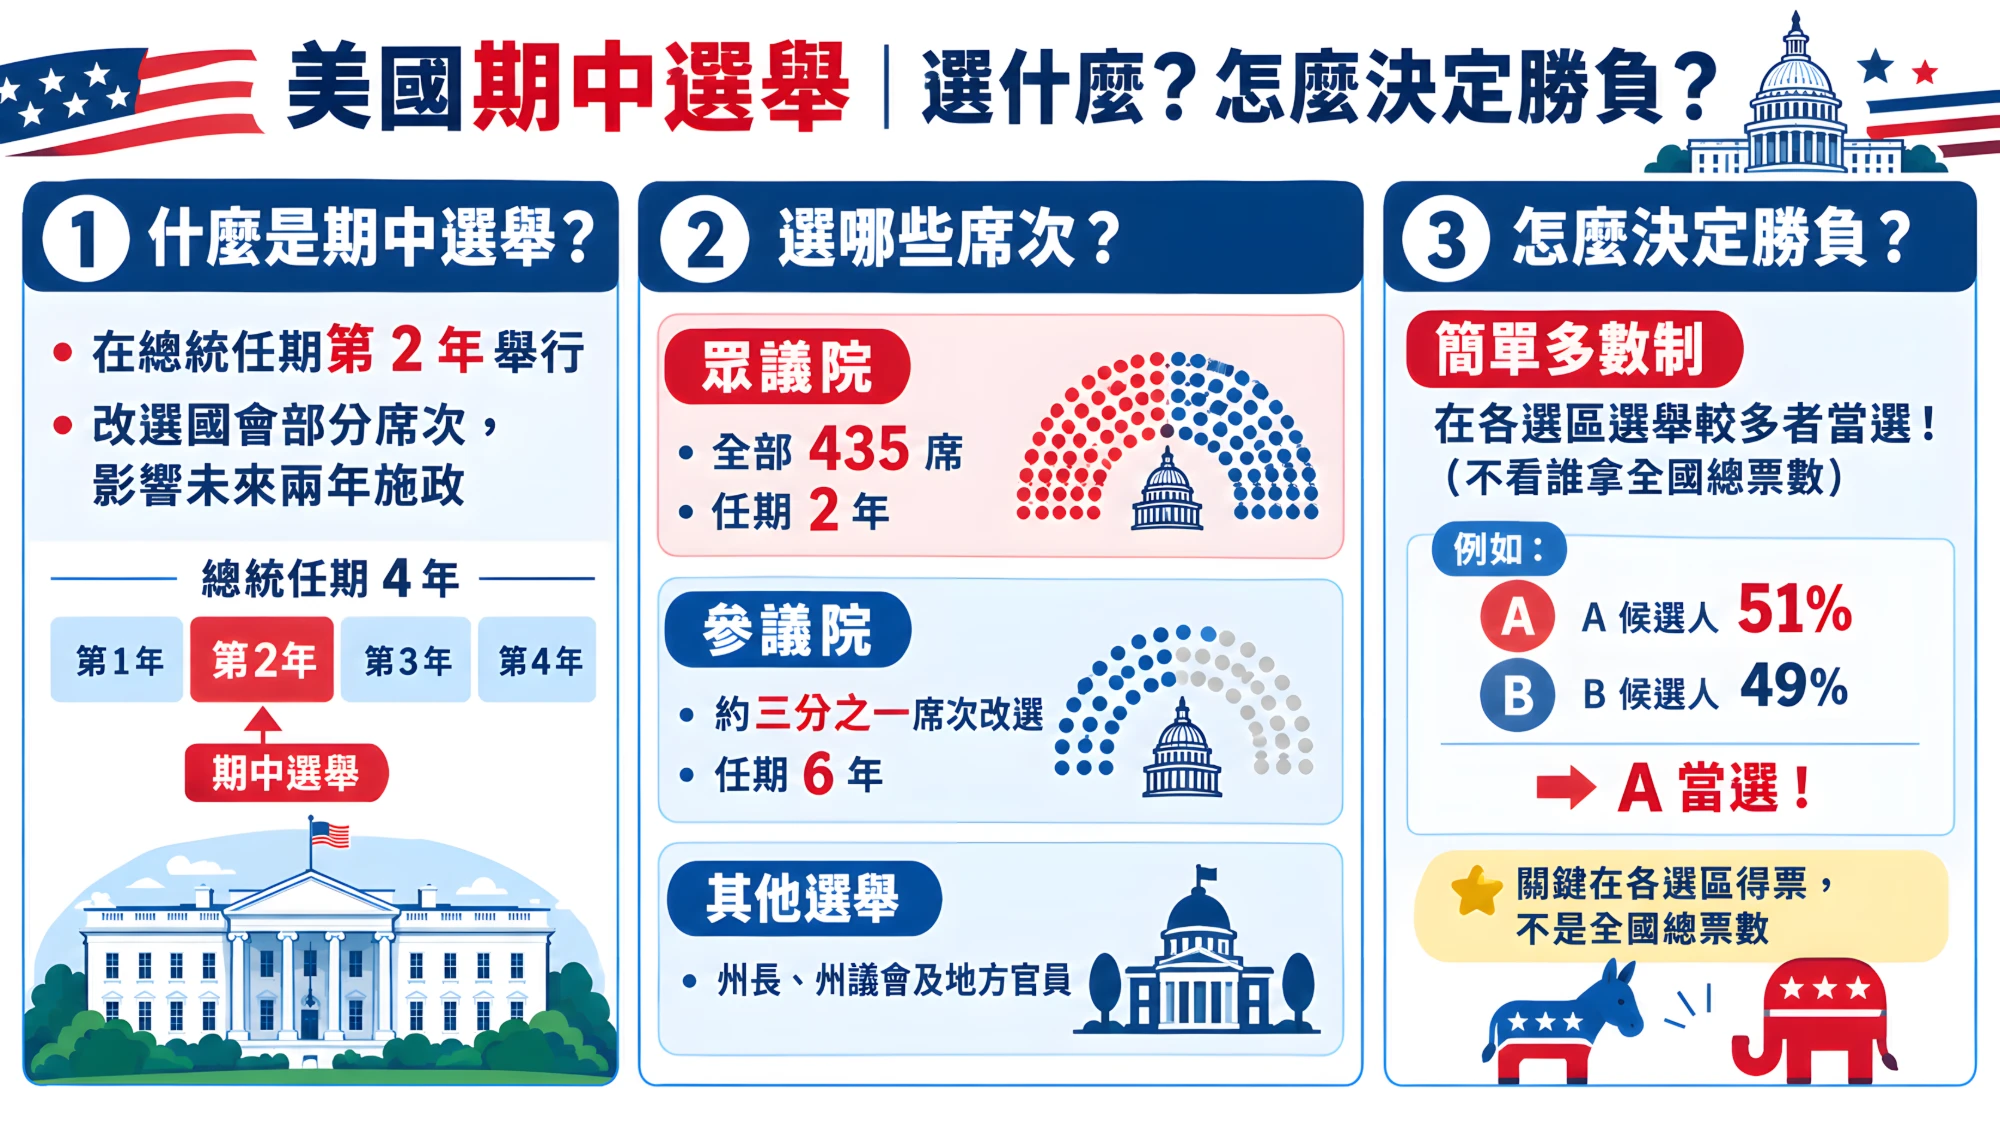
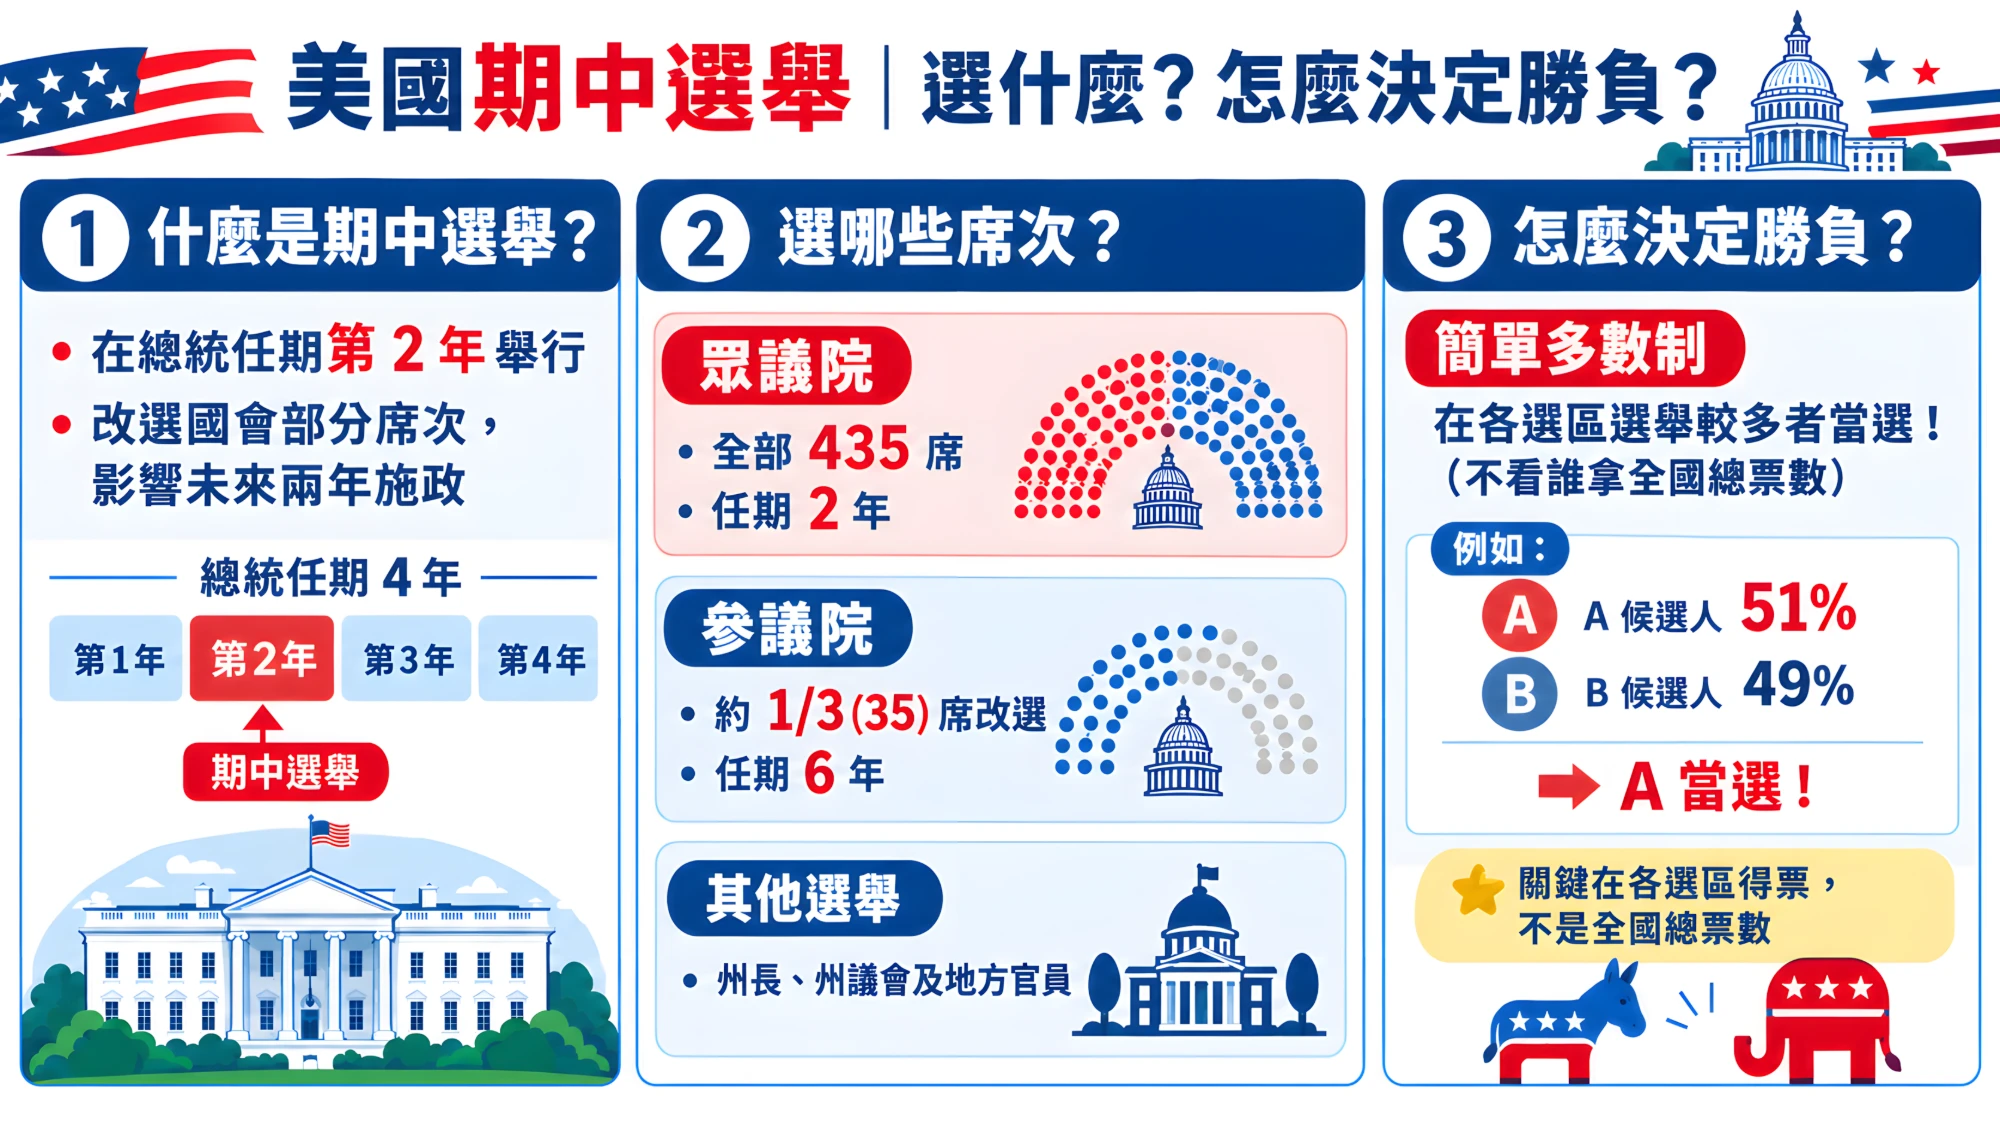
資訊圖卡抽換為更新版 (#4)
Same 2000x1126 size; src gets ?v=20261103 so browsers drop the cached old image.

Claude-Session: https://claude.ai/code/session_012ZVunQd1wTjPMiLzvJZ2qt

diff --git a/index.html b/index.html
@@ -630,7 +630,7 @@ height="0" width="0" style="display:none;visibility:hidden"></iframe></noscript>
 
     <!-- 資訊圖卡：美國期中選舉基本介紹 -->
     <div class="ue-info" data-anchor="info">
-      <img src="./medias/midterm-basics.webp" width="2000" height="1126" loading="lazy"
+      <img src="./medias/midterm-basics.webp?v=20261103" width="2000" height="1126" loading="lazy"
         alt="美國期中選舉資訊圖卡：什麼是期中選舉？選哪些席次？怎麼決定勝負？">
     </div>
 

diff --git a/CLAUDE.md b/CLAUDE.md
@@ -19,7 +19,7 @@
 ## 版面順序
 - 桌機：計分板 → 地圖＋戰區列表 → 圖文區塊（全寬）→ 資訊圖卡（全寬）
 - 手機：計分板 → 地圖 → 圖文區塊 → 資訊圖卡 → 戰區列表
-- 資訊圖卡：`medias/midterm-basics.webp`（寫死在 `index.html` 的 `.ue-info`，換圖直接覆蓋同名檔即可）
+- 資訊圖卡：`medias/midterm-basics.webp`（寫死在 `index.html` 的 `.ue-info`，換圖直接覆蓋同名檔即可，並把 `index.html` 裡圖片網址後面的 `?v=` 版本參數改成新日期（避免讀者瀏覽器沿用舊圖快取）；尺寸維持 2000×1126 時不需改 `width`/`height`）
 
 ## 圖文區塊的報導連結
 - 連結用 `target="_top"` 在同一個分頁跳轉（嵌入 CMS 的 iframe 時，會讓整個 CMS 頁面跳轉，而不是在小框裡開啟）；不加 `noreferrer`，中時站內可看到來源
